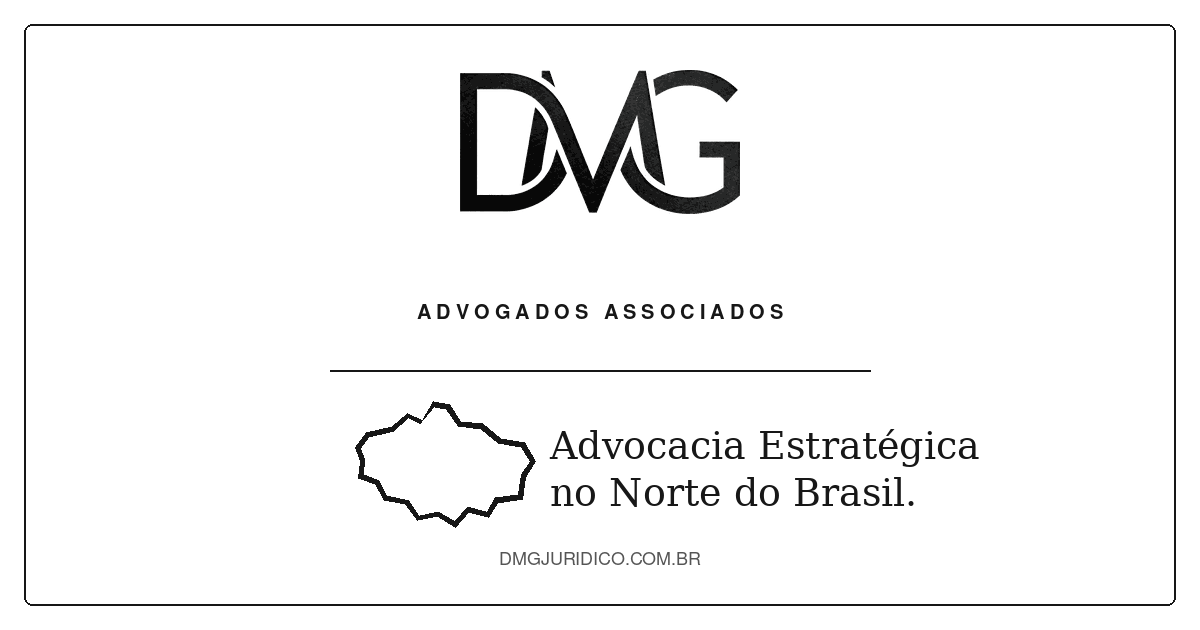
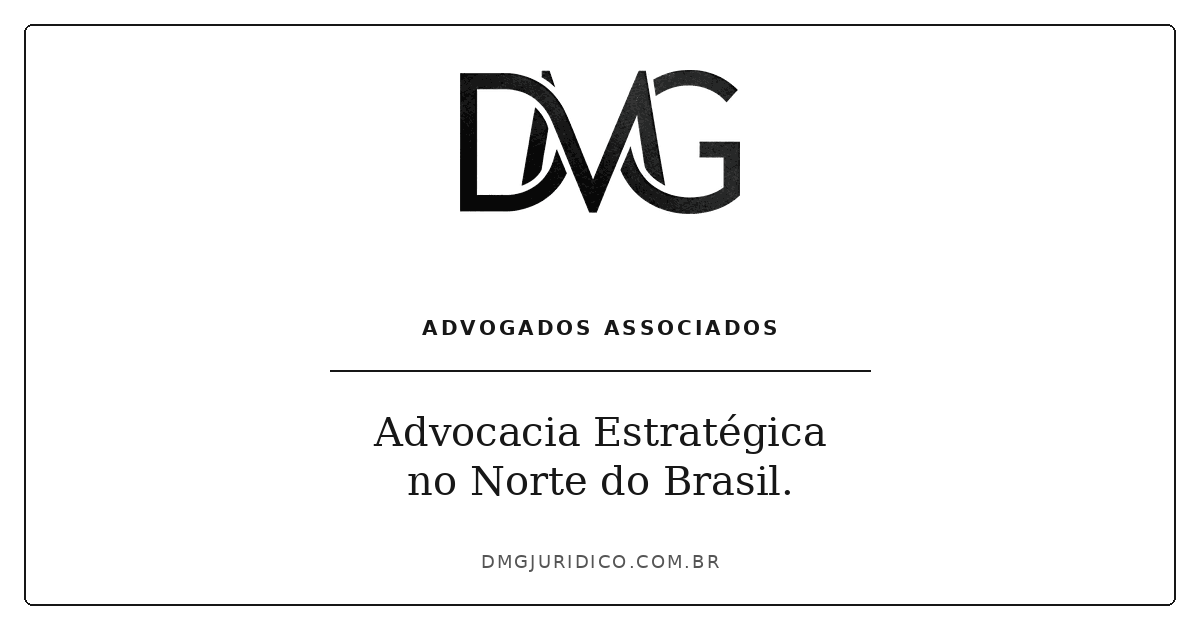
Remove símbolo do Norte da identidade social

Changed region(s): [[0.2775, 0.6333, 0.8325, 0.8444], [0.3392, 0.4825, 0.6475, 0.5429], [0.4008, 0.8746, 0.6167, 0.9048]]

diff --git a/index.html b/index.html
@@ -7,8 +7,8 @@
   <meta name="description" content="DMG | Advogados Associados. Advocacia responsável e estratégica no Norte do Brasil, com atuação nas áreas Cível, Trabalhista, Administrativa e em Licitações.">
   <meta name="robots" content="index,follow,max-image-preview:large">
   <link rel="canonical" href="https://dmgjuridico.com.br/">
-  <link rel="icon" href="favicon.svg?v=20260906-norte-v2" type="image/svg+xml">
-  <link rel="apple-touch-icon" href="assets/images/apple-touch-icon.png?v=20260906-norte-v2">
+  <link rel="icon" href="favicon.svg?v=20260906-logo-texto-v3" type="image/svg+xml">
+  <link rel="apple-touch-icon" href="assets/images/apple-touch-icon.png?v=20260906-logo-texto-v3">
   <link rel="manifest" href="site.webmanifest">
   <link rel="stylesheet" href="assets/css/style.css">
   <link rel="stylesheet" href="assets/css/refinements.css">
@@ -62,8 +62,8 @@
   <meta property="og:title" content="DMG | Advogados Associados">
   <meta property="og:description" content="Advocacia Estratégica no Norte do Brasil.">
   <meta property="og:url" content="https://dmgjuridico.com.br/">
-  <meta property="og:image" content="https://dmgjuridico.com.br/assets/images/dmg-social-norte.png?v=20260906-norte-v2">
-  <meta property="og:image:secure_url" content="https://dmgjuridico.com.br/assets/images/dmg-social-norte.png?v=20260906-norte-v2">
+  <meta property="og:image" content="https://dmgjuridico.com.br/assets/images/dmg-social-norte.png?v=20260906-logo-texto-v3">
+  <meta property="og:image:secure_url" content="https://dmgjuridico.com.br/assets/images/dmg-social-norte.png?v=20260906-logo-texto-v3">
   <meta property="og:image:type" content="image/png">
   <meta property="og:image:width" content="1200">
   <meta property="og:image:height" content="630">
@@ -71,7 +71,7 @@
   <meta name="twitter:card" content="summary_large_image">
   <meta name="twitter:title" content="DMG | Advogados Associados">
   <meta name="twitter:description" content="Advocacia Estratégica no Norte do Brasil.">
-  <meta name="twitter:image" content="https://dmgjuridico.com.br/assets/images/dmg-social-norte.png?v=20260906-norte-v2">
+  <meta name="twitter:image" content="https://dmgjuridico.com.br/assets/images/dmg-social-norte.png?v=20260906-logo-texto-v3">
   <script type="application/ld+json">
   {
     "@context":"https://schema.org",

diff --git a/licitapara/index.html b/licitapara/index.html
@@ -7,20 +7,20 @@
   <meta name="description" content="Entenda a relação entre a DMG | Advogados Associados e o LicitaPará, a atuação jurídica em licitações e contratos públicos e como acessar a plataforma.">
   <meta name="robots" content="index,follow,max-image-preview:large">
   <link rel="canonical" href="https://dmgjuridico.com.br/licitapara/">
-  <link rel="icon" href="../favicon.svg?v=20260906-norte-v2" type="image/svg+xml">
-  <link rel="apple-touch-icon" href="../assets/images/apple-touch-icon.png?v=20260906-norte-v2">
+  <link rel="icon" href="../favicon.svg?v=20260906-logo-texto-v3" type="image/svg+xml">
+  <link rel="apple-touch-icon" href="../assets/images/apple-touch-icon.png?v=20260906-logo-texto-v3">
   <meta property="og:type" content="website">
   <meta property="og:locale" content="pt_BR">
   <meta property="og:title" content="LicitaPará | DMG Advogados Associados">
   <meta property="og:description" content="Advocacia Estratégica no Norte do Brasil.">
   <meta property="og:url" content="https://dmgjuridico.com.br/licitapara/">
-  <meta property="og:image" content="https://dmgjuridico.com.br/assets/images/dmg-social-norte.png?v=20260906-norte-v2">
+  <meta property="og:image" content="https://dmgjuridico.com.br/assets/images/dmg-social-norte.png?v=20260906-logo-texto-v3">
   <meta property="og:image:type" content="image/png">
   <meta property="og:image:width" content="1200">
   <meta property="og:image:height" content="630">
   <meta property="og:image:alt" content="DMG Advogados Associados — Advocacia Estratégica no Norte do Brasil">
   <meta name="twitter:card" content="summary_large_image">
-  <meta name="twitter:image" content="https://dmgjuridico.com.br/assets/images/dmg-social-norte.png?v=20260906-norte-v2">
+  <meta name="twitter:image" content="https://dmgjuridico.com.br/assets/images/dmg-social-norte.png?v=20260906-logo-texto-v3">
   <link rel="stylesheet" href="../assets/css/style.css">
   <link rel="stylesheet" href="../assets/css/refinements.css">
   <link rel="stylesheet" href="../assets/css/licitapara-page.css">

diff --git a/publicacoes/index.html b/publicacoes/index.html
@@ -6,20 +6,20 @@
   <meta name="theme-color" content="#0b0b0a">
   <meta name="description" content="Publicações da DMG | Advogados Associados: análises informativas sobre decisões, leis e temas relevantes do Direito.">
   <link rel="canonical" href="https://dmgjuridico.com.br/publicacoes/">
-  <link rel="icon" href="../favicon.svg?v=20260906-norte-v2" type="image/svg+xml">
-  <link rel="apple-touch-icon" href="../assets/images/apple-touch-icon.png?v=20260906-norte-v2">
+  <link rel="icon" href="../favicon.svg?v=20260906-logo-texto-v3" type="image/svg+xml">
+  <link rel="apple-touch-icon" href="../assets/images/apple-touch-icon.png?v=20260906-logo-texto-v3">
   <meta property="og:type" content="website">
   <meta property="og:locale" content="pt_BR">
   <meta property="og:title" content="Publicações | DMG Advogados Associados">
   <meta property="og:description" content="Advocacia Estratégica no Norte do Brasil.">
   <meta property="og:url" content="https://dmgjuridico.com.br/publicacoes/">
-  <meta property="og:image" content="https://dmgjuridico.com.br/assets/images/dmg-social-norte.png?v=20260906-norte-v2">
+  <meta property="og:image" content="https://dmgjuridico.com.br/assets/images/dmg-social-norte.png?v=20260906-logo-texto-v3">
   <meta property="og:image:type" content="image/png">
   <meta property="og:image:width" content="1200">
   <meta property="og:image:height" content="630">
   <meta property="og:image:alt" content="DMG Advogados Associados — Advocacia Estratégica no Norte do Brasil">
   <meta name="twitter:card" content="summary_large_image">
-  <meta name="twitter:image" content="https://dmgjuridico.com.br/assets/images/dmg-social-norte.png?v=20260906-norte-v2">
+  <meta name="twitter:image" content="https://dmgjuridico.com.br/assets/images/dmg-social-norte.png?v=20260906-logo-texto-v3">
   <link rel="stylesheet" href="../assets/css/style.css">
   <link rel="stylesheet" href="../assets/css/refinements.css">
   <link rel="stylesheet" href="../assets/css/publicacoes.css?v=20260906-construction">

diff --git a/quem-somos/index.html b/quem-somos/index.html
@@ -7,20 +7,20 @@
   <meta name="description" content="Conheça a DMG | Advogados Associados, o escritório, a equipe e a localização para atendimentos presenciais em Manaus.">
   <meta name="robots" content="index,follow,max-image-preview:large">
   <link rel="canonical" href="https://dmgjuridico.com.br/quem-somos/">
-  <link rel="icon" href="../favicon.svg?v=20260906-norte-v2" type="image/svg+xml">
-  <link rel="apple-touch-icon" href="../assets/images/apple-touch-icon.png?v=20260906-norte-v2">
+  <link rel="icon" href="../favicon.svg?v=20260906-logo-texto-v3" type="image/svg+xml">
+  <link rel="apple-touch-icon" href="../assets/images/apple-touch-icon.png?v=20260906-logo-texto-v3">
   <meta property="og:type" content="website">
   <meta property="og:locale" content="pt_BR">
   <meta property="og:title" content="Quem somos | DMG Advogados Associados">
   <meta property="og:description" content="Advocacia Estratégica no Norte do Brasil.">
   <meta property="og:url" content="https://dmgjuridico.com.br/quem-somos/">
-  <meta property="og:image" content="https://dmgjuridico.com.br/assets/images/dmg-social-norte.png?v=20260906-norte-v2">
+  <meta property="og:image" content="https://dmgjuridico.com.br/assets/images/dmg-social-norte.png?v=20260906-logo-texto-v3">
   <meta property="og:image:type" content="image/png">
   <meta property="og:image:width" content="1200">
   <meta property="og:image:height" content="630">
   <meta property="og:image:alt" content="DMG Advogados Associados — Advocacia Estratégica no Norte do Brasil">
   <meta name="twitter:card" content="summary_large_image">
-  <meta name="twitter:image" content="https://dmgjuridico.com.br/assets/images/dmg-social-norte.png?v=20260906-norte-v2">
+  <meta name="twitter:image" content="https://dmgjuridico.com.br/assets/images/dmg-social-norte.png?v=20260906-logo-texto-v3">
   <link rel="stylesheet" href="../assets/css/style.css">
   <link rel="stylesheet" href="../assets/css/team-fix.css">
   <link rel="stylesheet" href="../assets/css/refinements.css">
